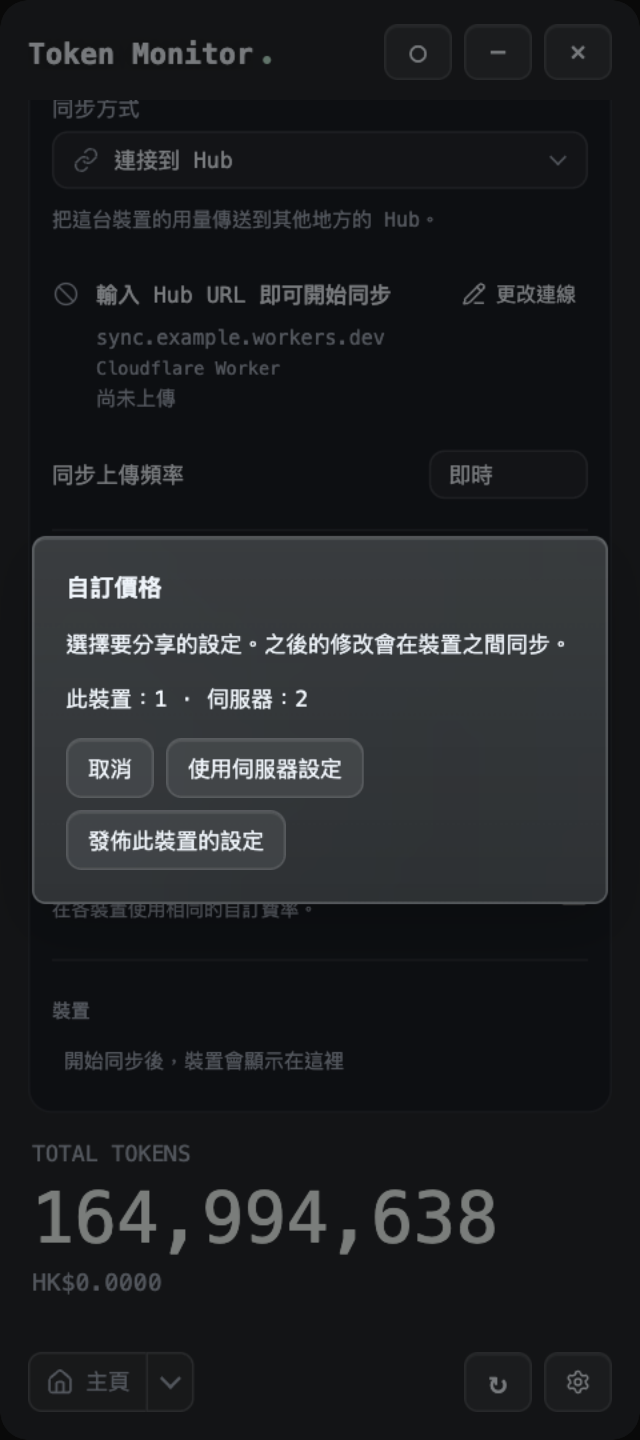
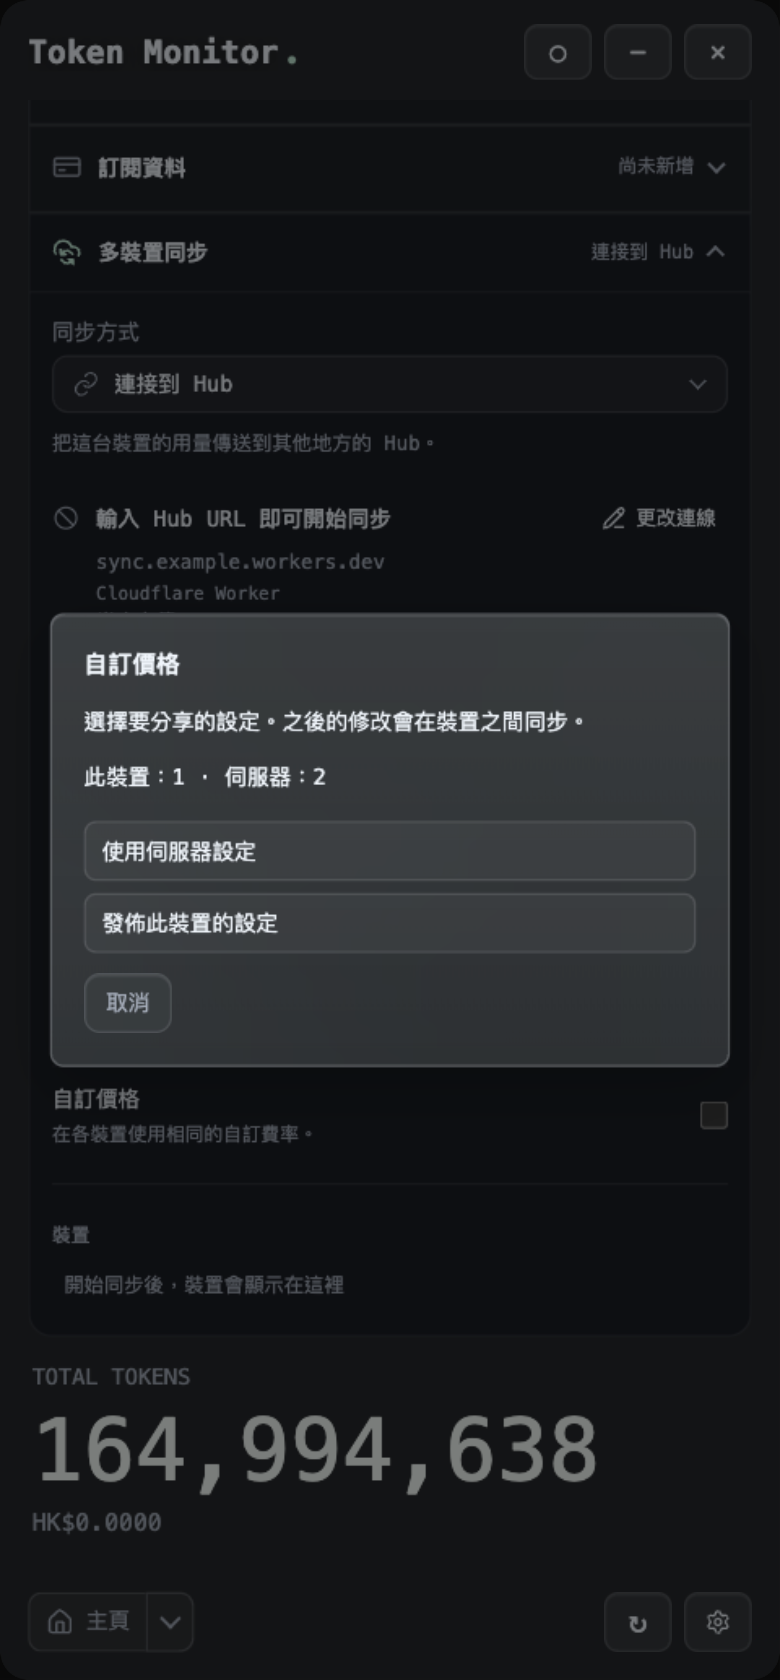
fix(sync): group shared setting source choices

diff --git a/src/electron/renderer/index.html b/src/electron/renderer/index.html
@@ -1602,12 +1602,14 @@
       <p id="syncContentCounts"></p>
       <p id="syncContentNoShared" class="settings-note" data-i18n="settings.sync.content.noShared" hidden>No shared settings yet. Use server settings to wait for a future shared edit, or publish this device's settings.</p>
       <p id="syncContentDialogStatus" class="settings-note error" role="status" aria-live="polite" hidden></p>
+      <div id="syncContentSourceChoices" class="sync-content-source-choices" hidden>
+        <button id="syncContentUseServer" type="button" data-i18n="settings.sync.content.useServer">Use server settings</button>
+        <button id="syncContentPublish" type="button" data-i18n="settings.sync.content.publish">Publish this device's settings</button>
+      </div>
       <div class="settings-actions">
         <button id="syncContentCancel" type="button" data-i18n="settings.common.cancel" autofocus>Cancel</button>
         <button id="syncContentDialogRetry" type="button" data-i18n="settings.sync.content.retry" hidden>Reload sync status</button>
         <button id="syncContentConfirm" class="sync-content-primary" type="button" data-i18n="settings.sync.content.enableTitles">Enable title sync</button>
-        <button id="syncContentUseServer" type="button" data-i18n="settings.sync.content.useServer">Use server settings</button>
-        <button id="syncContentPublish" type="button" data-i18n="settings.sync.content.publish">Publish this device's settings</button>
       </div>
     </dialog>
     <button id="floatingBubbleTab" class="floating-bubble-tab" type="button" title="Show Token Monitor" aria-label="Show Token Monitor" data-i18n-title="floatingBubble.expand" data-i18n-aria-label="floatingBubble.expand">

diff --git a/src/electron/renderer/styles.css b/src/electron/renderer/styles.css
@@ -1749,6 +1749,8 @@ button.settings-help-trigger:focus-visible { outline: 1px solid var(--accent); o
 .sync-content-dialog > strong { display: block; font-size: 12px; }
 .sync-content-dialog p { overflow-wrap: anywhere; }
 .sync-content-dialog .settings-actions { flex-wrap: wrap; gap: 6px; }
+.sync-content-source-choices { display: grid; gap: 6px; margin: 14px 0 10px; }
+.sync-content-source-choices > button { width: 100%; min-width: 0; text-align: left; white-space: normal; overflow-wrap: anywhere; font: inherit; }
 .sync-content-dialog button { min-height: 30px; padding: 5px 8px; border: 1px solid var(--line); border-radius: 6px; background: rgba(var(--overlay-rgb), var(--control-alpha)); color: var(--text); cursor: pointer; }
 .sync-content-dialog button:hover { background: rgba(var(--overlay-rgb), 0.12); }
 .sync-content-dialog #syncContentCancel { background: transparent; color: var(--muted); }

diff --git a/tests/electron/syncContentForm.test.js b/tests/electron/syncContentForm.test.js
@@ -115,6 +115,7 @@ for (const cancel of ['Cancel', 'escape']) test(`title consent supports ${cancel
   await f.form.refresh();
   await f.get('sessionTitles').change(true);
   assert.equal(f.get('Dialog').open, true);
+  assert.equal(f.get('SourceChoices').hidden, true);
   assert.equal(f.document.activeElement, f.get('Cancel'));
   assert.equal(f.get('sessionTitles').checked, false);
   assert.match(f.get('DialogCopy').textContent, /hub\.example:17321/);

diff --git a/src/electron/renderer/syncContentForm.js b/src/electron/renderer/syncContentForm.js
@@ -130,6 +130,7 @@
       el('Counts').hidden = titles;
       el('Counts').textContent = titles ? '' : text('counts', { local: preview.localCount, server: preview.serverCount });
       el('NoShared').hidden = titles || preview.hasServerValue;
+      el('SourceChoices').hidden = titles;
       el('Confirm').hidden = !titles;
       el('UseServer').hidden = titles;
       el('Publish').hidden = titles;
